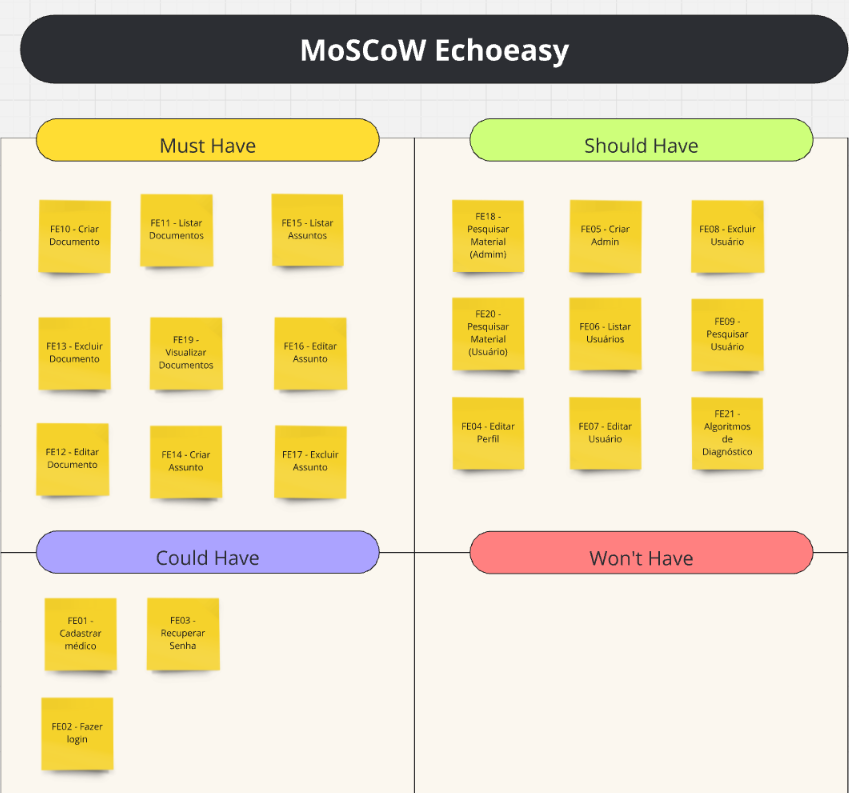
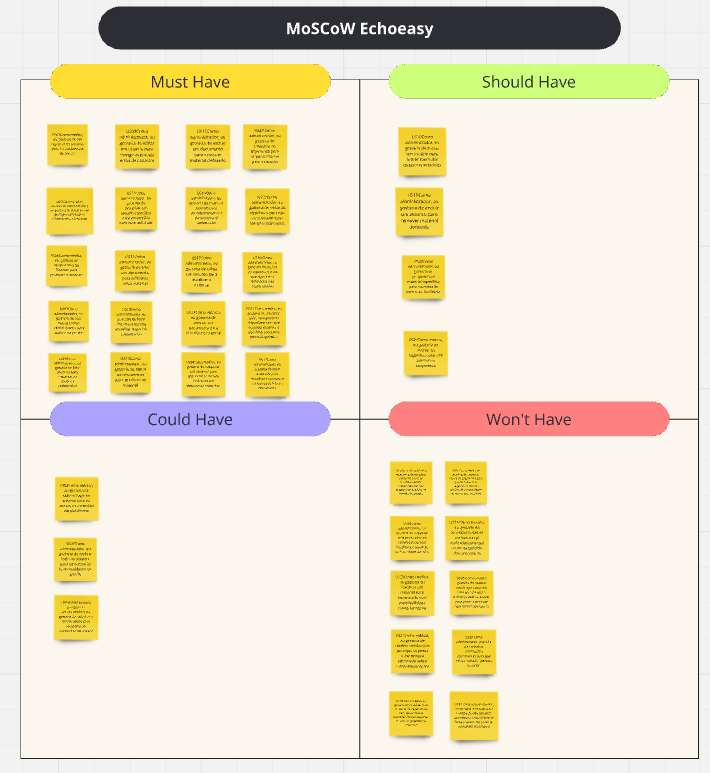
docs(mpv) : atualiza moscow e tabela de pontos

diff --git a/docs/mvp.md b/docs/mvp.md
@@ -9,13 +9,24 @@ Utilizamos o sistema de pontos para avaliar a complexidade, a viabilidade e o va
 
 <center>
 
+## MosCow
+
 ![MosCOw](./assets/imgs/MosCow.png)
+
+## Tabala de Pontos
 ![Priorizacao](./assets/imgs/priorizacao.png)
 </center>
 
+
+## Miro Contendo a Priorização (Tabela de Pontos e MosCow)
+Abaixo se encontra o miro que pode ser visualizado clicando [aqui](https://miro.com/welcomeonboard/eW9PVXJFcVAwNlJDdUhwTUd4b2ZuNVk0QkxGNzFFaXFYSVZLMFhLeWxUQkNIMUF5ekttUFc1eEVkNWozZnZDZHwzMDc0NDU3MzYyOTQyNDYzNTMxfDI=?share_link_id=810399639819)
+
+
+<iframe width="768" height="432" src="https://miro.com/welcomeonboard/eW9PVXJFcVAwNlJDdUhwTUd4b2ZuNVk0QkxGNzFFaXFYSVZLMFhLeWxUQkNIMUF5ekttUFc1eEVkNWozZnZDZHwzMDc0NDU3MzYyOTQyNDYzNTMxfDI=?share_link_id=298669973303" frameborder="0" scrolling="no" allow="fullscreen; clipboard-read; clipboard-write" allowfullscreen></iframe>
+
 ### Criterios utilizados para definir a priorização:
-    - Nota >= 9 (Must Have)
-    - Nota >= 7 e Nota < = 8 (Should Have)
+    - Nota >= 8 (Must Have)
+    - Nota = 7  (Should Have)
     - Nota >= 5 e Nota <= 6 (Could Have) 
     - Nota < 5 (Won't Have)
 
@@ -27,35 +38,42 @@ O MVP foi cuidadosamente planejado para incluir as funcionalidades essenciais qu
 
 **Tabela 01** - Listagem do MVP
 
-| Épico              | Capacidade                  | Feature                          | User Story | Critérios de Aceitação                                                                                                                                                                                                                                                                                                                                                       |
-| ------------------ | :-------------------------- | :------------------------------- | ---------- | ---------------------------------------------------------------------------------------------------------------------------------------------------------------------------------------------------------------------------------------------------------------------------------------------------------------------------------------------------------------------------- |
-| EP-01 - Acesso     | CA01 - Acesso               | FE01 - Cadastrar médico          | US01       | 1. O sistema deve permitir o registro com nome, email, CPF, senha e confirmação de senha. <br> 2. O sistema deve verificar se o email já está registrado e exibir uma mensagem de erro apropriada. <br> 3. O sistema deve exigir que a senha tenha pelo menos 8 caracteres, incluindo uma letra maiúscula, uma minúscula, um número e um caractere especial.                 |
-| EP-01 - Acesso     | CA01 - Acesso               | FE02 - Fazer login               | US02, US03 | 1. O sistema deve permitir login com email e senha. <br> 2. O sistema deve redirecionar o usuário para a página inicial adequada de acordo com a role após login bem-sucedido. <br> 3. O sistema deve exibir uma mensagem de erro caso as credenciais estejam incorretas. <br> 4. O sistema deve permitir ao usuário lembrar da sua sessão por 30 minutos.                   |
-| EP-01 - Acesso     | CA01 - Acesso               | FE03 - Recuperar Senha           | US04       | 1. O sistema deve permitir o envio de um token de redefinição de senha por email. <br> 2. O sistema deve permitir a criação de uma nova senha a partir do link. <br> 3. O sistema deve validar se a nova senha atende aos requisitos de segurança. <br> 4. O sistema deve exibir uma mensagem de confirmação após a redefinição de senha bem-sucedida.                       |
-| EP-02 - Meu perfil | CA02 - Dados do usuário     | FE04 - Editar Perfil             | US05       | 1. O sistema deve permitir a edição de informações como nome, email, senha e outras informações pessoais. <br> 2. O sistema deve salvar as alterações e confirmar a atualização. <br> 3. O sistema deve verificar se o novo email (se alterado) já está registrado e exibir uma mensagem de erro apropriada.                                                                 |
-| EP-03 - Usuários   | CA04 - Administração        | FE05 - Criar Admin               | US07       | 1. O sistema deve permitir administradores criarem novos administradores <br> 2. O sistema deve verificar se o email já está registrado e exibir uma mensagem de erro apropriada.                                                                                                                                                                                            |
-| EP-03 - Usuários   | CA04 - Administração        | FE06 - Listar Usuários           | US08       | 1. O sistema deve exibir uma lista paginada de usuários com nome, email e status da conta. <br> 2. O sistema deve permitir filtrar a lista por status (ativo, inativo, pendente). <br> 3. O sistema deve permitir ordenar a lista por nome, email ou data de cadastro.                                                                                                       |
-| EP-03 - Usuários   | CA04 - Administração        | FE07 - Editar Usuário            | US09       | 1. O sistema deve permitir editar informações do usuário como nome, email, senha e status. <br> 2. O sistema deve salvar as alterações e confirmar a atualização. <br> 3. O sistema deve verificar se o novo email (se alterado) já está registrado e exibir uma mensagem de erro apropriada. <br> 4. O sistema deve permitir ao administrador redefinir a senha do usuário. |
-| EP-03 - Usuários   | CA04 - Administração        | FE08 - Excluir Usuário           | US10       | 1. O sistema deve permitir excluir um usuário e confirmar a exclusão com uma mensagem de sucesso. <br> 2. O sistema deve solicitar uma confirmação antes da exclusão definitiva. <br> 3. O sistema deve remover todos os dados associados ao usuário excluído.                                                                                                               |
-| EP-03 - Usuários   | CA04 - Administração        | FE09 - Pesquisar Usuário         | US11       | 1. O sistema deve permitir a pesquisa de usuários por nome ou email. <br> 2. O sistema deve permitir filtrar os resultados por status da conta. <br> 3. O sistema deve permitir a pesquisa avançada por outros critérios, como data de cadastro ou último login.                                                                                                             |
-| EP-04 - Material   | CA04 - Administração        | FE10 - Criar Documento           | US12       | 1. O sistema deve permitir a criação de documentos com título, conteúdo e categoria. <br> 2. O sistema deve confirmar a criação com uma mensagem de sucesso. <br> 3. O sistema deve permitir o upload de arquivos anexos ao documento.                                                                                                                                       |
-| EP-04 - Material   | CA04 - Administração        | FE11 - Listar Documentos         | US13       | 1. O sistema deve exibir uma lista paginada de documentos com título, data de criação e categoria. <br> 2. O sistema deve permitir filtrar a lista por categoria. <br> 3. O sistema deve permitir ordenar a lista por título, data de criação ou popularidade.                                                                                                               |
-| EP-04 - Material   | CA04 - Administração        | FE12 - Editar Documento          | US14       | 1. O sistema deve permitir a edição de título, conteúdo e categoria de um documento. <br> 2. O sistema deve confirmar a atualização com uma mensagem de sucesso. <br> 3. O sistema deve permitir o upload de novos arquivos anexos ao documento. <br> 4. O sistema deve manter um histórico de edição do documento.                                                          |
-| EP-04 - Material   | CA04 - Administração        | FE13 - Excluir Documento         | US15       | 1. O sistema deve permitir excluir um documento e confirmar a exclusão com uma mensagem de sucesso. <br> 2. O sistema deve solicitar uma confirmação antes da exclusão definitiva. <br> 3. O sistema deve remover todos os dados associados ao documento excluído.                                                                                                           |
-| EP-04 - Material   | CA04 - Administração        | FE14 - Criar Assunto             | US16       | 1. O sistema deve permitir a criação de assuntos relacionados a documentos com título e conteúdo. <br> 2. O sistema deve confirmar a criação com uma mensagem de sucesso. <br> 3. O sistema deve permitir o upload de arquivos anexos ao assunto.                                                                                                                            |
-| EP-04 - Material   | CA04 - Administração        | FE15 - Listar Assuntos           | US17       | 1. O sistema deve exibir uma lista de assuntos relacionados a cada documento. <br> 2. O sistema deve permitir filtrar a lista por documento. <br> 3. O sistema deve permitir ordenar a lista por título, data de criação ou popularidade.                                                                                                                                    |
-| EP-04 - Material   | CA04 - Administração        | FE16 - Editar Assunto            | US18       | 1. O sistema deve permitir a edição de título e conteúdo de um assunto. <br> 2. O sistema deve confirmar a atualização com uma mensagem de sucesso. <br> 3. O sistema deve permitir o upload de novos arquivos anexos ao assunto. <br> 4. O sistema deve manter um histórico de edição do assunto.                                                                           |
-| EP-04 - Material   | CA04 - Administração        | FE17 - Excluir Assunto           | US19       | 1. O sistema deve permitir excluir um assunto e confirmar a exclusão com uma mensagem de sucesso. <br> 2. O sistema deve solicitar uma confirmação antes da exclusão definitiva. <br> 3. O sistema deve remover todos os dados associados ao assunto excluído.                                                                                                               |
-| EP-04 - Material   | CA04 - Administração        | FE18 - Pesquisar Material        | US20       | 1. O sistema deve permitir a pesquisa de documentos por título ou conteúdo. <br> 2. O sistema deve exibir resultados relevantes da pesquisa.                                                                                                                                                                                                                                 |
-| EP-06 - Visualizar | CA06 - Acesso aos Materiais | FE19 - Visualizar Documentos     | US23       | 1. O sistema deve permitir o acesso a documentos com título, conteúdo e data de publicação.                                                                                                                                                                                                                                                                                  |
-| EP-06 - Visualizar | CA06 - Acesso aos Materiais | FE20 - Pesquisar Material        | US24       | 1. O sistema deve permitir a pesquisa de documentos por título ou conteúdo. <br> 2. O sistema deve exibir resultados relevantes da pesquisa.                                                                                                                                                                                                                                 |
-| EP-07 - Algoritmos | CA07 - Consulta Médica      | FE21 - Algoritmos de Diagnóstico | US26       | Não definido                                                                                                                                                                                                                                                                                                                                                                 |
-
+| Tema | Epico                                | Capacidades                      | Features                                              | User Story | Descrição                                                                                                                                           |
+|------|--------------------------------------|:---------------------------------|-------------------------------------------------------|------------|-----------------------------------------------------------------------------------------------------------------------------------------------------|
+| TM01 | EP01 Gestão de Conteúdos e Usuários  | C01 Gerenciamento de Usuários    | F01 Registro de Médicos e Administradores             | US01       | Como médico, eu gostaria de me registrar no sistema para ter credenciais de acesso                                                                  |
+| TM01 | EP01 Gestão de Conteúdos e Usuários  | C01  Gerenciamento de Usuários   | F05 Login de Médicos e Administradores                | US02       | Como médico, eu gostaria de realizar login no sistema para ter acesso ao conteúdo da plataforma                                                     |
+| TM01 | EP01 Gestão de Conteúdos e Usuários  | C01 Gerenciamento de Usuários    | F05 Login de Médicos e Administradores                | US03       | Como administrador, eu gostaria de realizar login no sistema para ter acesso às funcionalidades de gestão                                           |
+| TM01 | EP01 Gestão de Conteúdos e Usuários  | C01  Gerenciamento de Usuários   | F04  Edição de Perfil de Usuário                      | US04       | Como usuário (médico ou administrador), eu gostaria de redefinir a minha senha para recuperar as credenciais de acesso                              |
+| TM01 | EP01  Gestão de Conteúdos e Usuários | C01  Gerenciamento de Usuários   | F04 Edição de Perfil de Usuário                       | US05       | Como usuário (médico ou administrador), eu gostaria de editar o meu perfil para atualizar as informações cadastradas                                |
+| TM01 | EP02 Assinatura e Notificações       | C04  Gerenciamento de Finanças   | F12 Gerenciamento de Assinatura                       | US06       | Como médico, eu gostaria de acessar área de finanças para gerenciar assinatura                                                                      |
+| TM01 | EP01 Gestão de Conteúdos e Usuários  | C01   Gerenciamento de Usuários  | F01 Registro de Médicos e Administradores             | US07       | Como administrador, eu gostaria de criar outras contas administrador para auxiliar na gestão                                                        |
+| TM01 | EP01 Gestão de Conteúdos e Usuários  | C01   Gerenciamento de Usuários  | F02   Pesquisa e Listagem de Usuários                 | US08       | Como administrador, eu gostaria de listar usuários para visualizar os usuários cadastrados                                                          |
+| TM01 | EP01 Gestão de Conteúdos e Usuários  | C01   Gerenciamento de Usuários  | F03  Edição e Exclusão de Usuários                    | US09       | Como administrador, eu gostaria de editar um usuário para corrigir eventuais erros de cadastro                                                      |
+| TM01 | EP01 Gestão de Conteúdos e Usuários  | C01   Gerenciamento de Usuários  | F03   Edição e Exclusão de Usuários                   | US10       | Como administrador, eu gostaria de excluir um usuário para retirar eventuais cadastros indevidos                                                    |
+| TM01 | EP01 Gestão de Conteúdos e Usuários  | C01   Gerenciamento de Usuários  | F02  Pesquisa e Listagem de Usuários                  | US11       | Como administrador, eu gostaria de pesquisar um usuário específico para encontrá-lo com mais facilidade                                             |
+| TM01 | EP01 Gestão de Conteúdos e Usuários  | C02  Gerenciamento de conteúdos  | F06  Criação e Listagem de Documentos                 | US12       | Como administrador, eu gostaria de criar um documento para adicionar novo material                                                                  |
+| TM01 | EP01 Gestão de Conteúdos e Usuários  | C02  Gerenciamento de conteúdos  | F06  Criação e Listagem de Documentos                 | US13       | Como administrador, eu gostaria de listar documentos para visualizar materiais cadastrados                                                          |
+| TM01 | EP01 Gestão de Conteúdos e Usuários  | C02  Gerenciamento de conteúdos  | F07  Edição e Exclusão de Documentos                  | US14       | Como administrador, eu gostaria de editar um documento para atualizar um material                                                                   |
+| TM01 | EP01 Gestão de Conteúdos e Usuários  | C02  Gerenciamento de conteúdos  | F07  Edição e Exclusão de Documentos                  | US15       | Como administrador, eu gostaria de excluir um documento para remover material defasado                                                              |
+| TM01 | EP01 Gestão de Conteúdos e Usuários  | C02  Gerenciamento de conteúdos  | F06  Criação e Listagem de Documentos                 | US16       | Como administrador, eu gostaria de criar um assunto para complementar um documento já cadastrado                                                    |
+| TM01 | EP01 Gestão de Conteúdos e Usuários  | C02  Gerenciamento de conteúdos  | F06  Criação e Listagem de Documentos                 | US17       | Como administrador, eu gostaria de listar assuntos para visualizar os assuntos cadastrados em um documento                                          |
+| TM01 | EP01 Gestão de Conteúdos e Usuários  | C02   Gerenciamento de conteúdos | F07 Edição e Exclusão de Documentos                   | US18       | Como administrador, eu gostaria de editar um assunto para atualizar o material                                                                      |
+| TM01 | EP01 Gestão de Conteúdos e Usuários  | C02   Gerenciamento de conteúdos | F07  Edição e Exclusão de Documentos                  | US19       | Como administrador, eu gostaria de excluir um assunto para remover material defasado                                                                |
+| TM01 | EP01 Gestão de Conteúdos e Usuários  | C02   Gerenciamento de conteúdos | F08   Pesquisa de Conteúdo e Visualização de Material | US20       | Como administrador, eu gostaria de pesquisar um material específico para encontrá-lo com mais facilidade                                            |
+| TM01 | EP01 Gestão de Conteúdos e Usuários  | C02  Gerenciamento de conteúdos  | F08   Pesquisa de Conteúdo e Visualização de Material | US23       | Como médico, eu gostaria de acessar um documento para visualizar o material                                                                         |
+| TM01 | EP01 Gestão de Conteúdos e Usuários  | C02  Gerenciamento de conteúdos  | F08  Pesquisa de Conteúdo e Visualização de Materia   | US24       | Como médico, eu gostaria de pesquisar um material para encontrar com mais facilidade um documento específico                                        |
+| TM01 | EP01  Gestão de Conteúdos e Usuários | C03  a Algoritmos de Diagnóstico | F11  Acesso ao Algoritimo                             | US26       | Como médico, eu gostaria de acessar os algoritmos para me auxiliar no diagnóstico                                                                   |
+| TM01 | EP01 Gestão de Conteúdos e Usuários  | C01 Gerenciamento de Usuários    | F10 Gestão de Algoritmos                              | US28       | Como administrador, eu gostaria de cadastrar os algoritmos para disponibiliza-los para o usuario                                                    |
+| TM01 | EP01 Gestão de Conteúdos e Usuários  | C01  Gerenciamento de Usuários   | F10 Gestão de Algoritmos                              | US29       | Como administrador, eu gostaria de editar os algoritmos para que eles possam estar sempre atualizados                                               |
+| TM01 | EP01 Gestão de Conteúdos e Usuários  | C01  Gerenciamento de Usuários   | F10 Gestão de Algoritmos                              | US30       | Como administrador, eu gostaria de excluir os algoritmos para que algoritmos defasados não sejam usados                                             |
+| TM01 | EP01 Gestão de Conteúdos e Usuários  | C03  a Algoritmos de Diagnóstico | F11  Acesso ao Algoritimo                             | US31       | Como médico, eu gostaria de visualizar todos os algoritmos disponíveis para que eu possa escolher o algoritmo adequado para o diagnóstico           |
 </center>
 
 ## 4. Histórico de Versões
 
-| Data       | Versão | Descrição                           | Autor(es)                                                                                                                                                                                     |
-| :--------- | :----: | :---------------------------------- | :-------------------------------------------------------------------------------------------------------------------------------------------------------------------------------------------- |
-| 31/07/2024 | `0.1`  | Criação e Estruturação do documento | [Leandro Almeida](https://github.com/leanars)                                                                                                                                                 |
-| 31/07/2024 | `0.2`  | Adição dos tópicos USM e MVP        | [Alexandre Beck](https://github.com/zzzBECK), [Leandro Almeida](https://github.com/leanars), [Lucas Antunes](https://github.com/LucasGSAntunes) e [Pedro Lucas](https://github.com/lucasdray) |
+| Data       | Versão | Descrição                                           | Autor(es)                                                                                                                                                                                     |
+|:-----------|:------:|:----------------------------------------------------| :-------------------------------------------------------------------------------------------------------------------------------------------------------------------------------------------- |
+| 31/07/2024 | `0.1`  | Criação e Estruturação do documento                 | [Leandro Almeida](https://github.com/leanars)                                                                                                                                                 |
+| 31/07/2024 | `0.2`  | Adição dos tópicos USM e MVP                        | [Alexandre Beck](https://github.com/zzzBECK), [Leandro Almeida](https://github.com/leanars), [Lucas Antunes](https://github.com/LucasGSAntunes) e [Pedro Lucas](https://github.com/lucasdray) |
+| 02/09/2024 | `0.3`  | Adicionando MosCow e Tabela de Priorição por pontos | [Tales Rodrigues](https://github.com/TalesRG)|
+| 08/09/2024 | `0.4`  | Corrigindo MVP para seguir a estrutura do SAFe      | [Tales Rodrigues](https://github.com/TalesRG)|

diff --git a/docs/backlog.md b/docs/backlog.md
@@ -224,8 +224,9 @@ O backlog do projeto é uma lista abrangente de todas as tarefas, funcionalidade
 </center>
 
 ## 10. Histórico de Versão 
-| Data       | Versão | Descrição                                              | Autor(es)                                                                                                                                                                                     |
-| :--------- | :----: | :----------------------------------------------------- | :-------------------------------------------------------------------------------------------------------------------------------------------------------------------------------------------- |
-| 19/07/2024 | `0.1`  | Criação e Estruturação do documento                    | [Leandro Almeida](https://github.com/leanars)                                                                                                                                                 |
-| 31/07/2024 | `0.2`  | Refatoração dos requisitos funcionais e não funcionais | [Alexandre Beck](https://github.com/zzzBECK), [Leandro Almeida](https://github.com/leanars), [Lucas Antunes](https://github.com/LucasGSAntunes) e [Pedro Lucas](https://github.com/lucasdray) |
-| 31/07/2024 | `0.3`  | Criação das User Storys e Backlog                      | [Alexandre Beck](https://github.com/zzzBECK), [Leandro Almeida](https://github.com/leanars), [Lucas Antunes](https://github.com/LucasGSAntunes) e [Pedro Lucas](https://github.com/lucasdray) |
+| Data       | Versão | Descrição                                                                       | Autor(es)                                                                                                                                                                                     |
+| :--------- |:------:|:--------------------------------------------------------------------------------| :-------------------------------------------------------------------------------------------------------------------------------------------------------------------------------------------- |
+| 19/07/2024 | `0.1`  | Criação e Estruturação do documento                                             | [Leandro Almeida](https://github.com/leanars)                                                                                                                                                 |
+| 31/07/2024 | `0.2`  | Refatoração dos requisitos funcionais e não funcionais                          | [Alexandre Beck](https://github.com/zzzBECK), [Leandro Almeida](https://github.com/leanars), [Lucas Antunes](https://github.com/LucasGSAntunes) e [Pedro Lucas](https://github.com/lucasdray) |
+| 31/07/2024 | `0.3`  | Criação das User Storys e Backlog                                               | [Alexandre Beck](https://github.com/zzzBECK), [Leandro Almeida](https://github.com/leanars), [Lucas Antunes](https://github.com/LucasGSAntunes) e [Pedro Lucas](https://github.com/lucasdray) |
+| 08/09/2024 | `0.4`  | Corrigindo estrutura do SAFe e adicionando Tema, Epicos, Features, e User Story | [Tales Rodrigues](https://github.com/TalesRG)|
